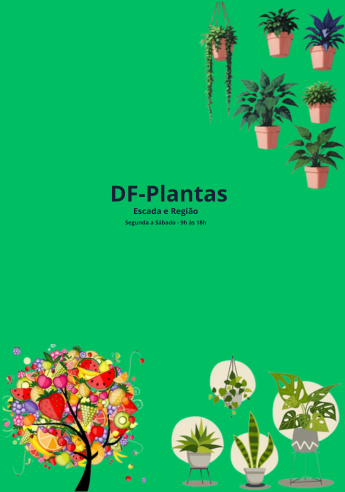
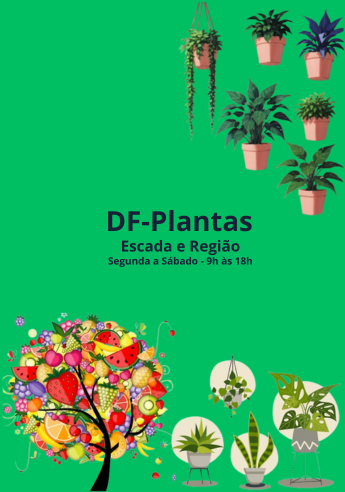
feat: update various components and styles
- Updated CardProduto, Slider, Title, LoginSignup, and PlantShop components with styling and functionality improvements.
- Modified global styles in globals.css for better consistency across components.

diff --git a/src/pages/PlantShop.jsx b/src/pages/PlantShop.jsx
@@ -15,18 +15,18 @@ export default function PlantShop() {
       <Header />
 
       <div className='mx-auto mt-6 flex justify-center md:mt-8' id='home'>
-        <img className='hidden w-10/12 h-[55vh] md:h-[80vh] md:block' src={DfBanner} alt="" />
-        <img className='w-10/12 h-[55vh] block md:h-[80vh] md:hidden' src={DfMobileBanner} alt="" />
+        <img className='hidden w-10/12 h-[55vh] md:h-[80vh] md:block' src={DfBanner} alt="Imagem do banner da loja" />
+        <img className='w-10/12 h-[55vh] block md:h-[80vh] md:hidden' src={DfMobileBanner} alt="Imagem do banner da loja" />
       </div>
 
       <main className="container mx-auto p-4 md:p-8" id='product'>
         <Slider title={'Nossas Plantas'} info={plants} />
-        <Slider title={'Nossos Vasos'} info={vases} />
-        <Slider title={'Outros Produtos'} info={other} />
+        <Slider title={'Nossos Vasos'} info={vases} className='dm:mr-[-5rem]' />
+        <Slider title={'Outros Produtos'} info={other} className='dm:mr-[-5rem]' />
 
         <section className='h-auto mx-auto mt-4 flex flex-wrap justify-center gap-2 md:gap-8 md:w-max md:mt-8'>
           <div>
-            <h3 className='h3-c md:text-lg'>
+            <h3 className='h3-c flex-col md:text-lg'>
               <Flower className='icon' />
               Plantas Premium
             </h3>
@@ -35,7 +35,7 @@ export default function PlantShop() {
             </p>
           </div>
           <div>
-            <h3 className='h3-c md:text-lg'>
+            <h3 className='h3-c flex-col md:text-lg'>
               <Leaf className='icon' />
               Espécies Exóticas
             </h3>
@@ -44,16 +44,16 @@ export default function PlantShop() {
             </p>
           </div>
           <div>
-            <h3 className='h3-c md:text-lg'>
+            <h3 className='h3-c flex-col md:text-lg'>
               <CreditCard className='icon' />
-              Parcele 12x Sem Juros
+              Parcele em 12x
             </h3>
             <p className='p-c w-32 md:w-56'>
               Parcele suas compras em até 12x sem juros no cartão de crédito.
             </p>
           </div>
           <div>
-            <h3 className='h3-c md:text-lg'>
+            <h3 className='h3-c flex-col md:text-lg'>
               <Truck className='icon' />
               Entrega Grátis
             </h3>
@@ -64,9 +64,9 @@ export default function PlantShop() {
         </section>
       </main>
 
-      <div className='w-8/12 mx-auto my-6 flex flex-col items-center md:my-16' id='about'>
+      <div className='w-9/12 mx-auto my-6 flex flex-col items-center md:my-16' id='about'>
         <h2 className='h2-c md:text-3xl'>Sobre Nós</h2>
-        <h3 className='h3-c'>Bem-vindo à nossa loja de plantas! 🌿</h3>
+        <h3 className='h3-c text-base text-center'>Bem-vindo à nossa loja de plantas! 🌿</h3>
         <div>
           <p className='p-c'>Aqui, na <b>DF-Plantas</b>, acreditamos que cada planta conta uma história única, trazendo mais vida, cor e frescor para o seu ambiente. Nós nos dedicamos a oferecer uma grande variedade de plantas, desde as mais clássicas até as espécies mais exóticas, todas cuidadas com o máximo de atenção para garantir que cheguem até você saudáveis e vibrantes.</p>
           <p className='p-c my-4'>Se você está em busca de um toque verde para a sua casa, escritório, ou presente perfeito para alguém especial, temos exatamente o que você precisa. Nossa equipe está sempre pronta para ajudar, seja para dar dicas sobre cuidados, sugestões de combinações ou até ajudar a encontrar aquela planta que vai transformar seu espaço.</p>
@@ -77,8 +77,8 @@ export default function PlantShop() {
       <iframe src="https://www.google.com/maps/embed?pb=!1m14!1m12!1m3!1d7894.496372492319!2d-35.24118454950209!3d-8.377230898066777!2m3!1f0!2f0!3f0!3m2!1i1024!2i768!4f13.1!5e0!3m2!1spt-BR!2sbr!4v1727961728152!5m2!1spt-BR!2sbr" className="iframe" style={{ border: "0", marginInline: "auto", padding: "10px" }} allowFullScreen={true} loading="lazy" title="loja df-plantas" referrerPolicy="no-referrer-when-downgrade">DF-Plantas</iframe>
 
       <footer className="w-full py-8 bg-thirdBackground text-secondaryForeground" id='contact'>
-        <div className="container mx-auto flex gap-1 justify-between text-center">
-          <p className='p-c-secondary'>Todos os Direitos Reservados &copy; {new Date().getFullYear()} DF-Plantas</p>
+        <div className="container mx-auto flex gap-1 justify-between items-center text-center">
+          <p className='p-c-secondary dm:w-28'>Todos os Direitos Reservados &copy; {new Date().getFullYear()} DF-Plantas</p>
           <div className='flex gap-1 md:gap-4'>
             <Mail className='icon-secondary' />
             <Phone className='icon-secondary' />
@@ -86,7 +86,7 @@ export default function PlantShop() {
             <FaInstagram className='icon-secondary' />
           </div>
           <a href="https://diego-fagundes-links.netlify.app/?fbclid=PAZXh0bgNhZW0CMTEAAaYKeVzi1XXM9tgpIFd_ZjC8z1dDtiTkAPR0Ttj9o6LtylYial0w_Ur86Do_aem_MK27d1KMJgfb4miHo5RofQ" target="_blank" rel="noreferrer">
-            <p className='p-c-secondary'>
+            <p className='p-c-secondary dm:w-20'>
               Desenvolvido por <span className='text-[#dfc672]'><b>Diego Fagundes</b></span>
             </p>
           </a>

diff --git a/src/components/CardProduto.jsx b/src/components/CardProduto.jsx
@@ -72,14 +72,14 @@ export default function Card({ product, admin, store }) {
   }
 
   return (
-    <div className={cn('w-max flex flex-col items-center justify-center relative md:mx-2', admin && 'relative', store && 'cursor-grab')}>
+    <div className={cn('w-full flex flex-col items-center justify-center relative md:mx-2', admin && 'relative', store && 'cursor-grab')}>
       {product?.image ? (
         <img className="img-c" src={product.image} alt={product?.name} />) : (<p>Imagem não disponível</p>
       )}
 
-      <h3 className="h3-c">{product?.name}</h3>
-      <p className='p-c'>Preço: R$ {product?.price},00</p>
-      <p className={cn('text-[0.3rem] text-disabledForeground z-10 text-center hidden md:mx-auto md:text-[0.96rem]', !product.visibility && 'block', store && 'md:mb-2')}>Indisponível no momento</p>
+      <h3 className="h3-c text-center">{product?.name}</h3>
+      <p className='p-c text-center'>Preço: R$ {product?.price},00</p>
+      <p className={cn('w-28 text-xs text-disabledForeground z-10 text-center hidden md:mx-auto md:text-[0.96rem]', !product.visibility && 'block', store && 'md:mb-2')}>Indisponível no momento</p>
 
       {store &&
         <button className={cn('btn-secondary', !product.visibility && 'hidden')} type="button">

diff --git a/src/styles/globals.css b/src/styles/globals.css
@@ -62,19 +62,19 @@
   }
 
   .h2-c {
-    @apply text-thirdForeground text-sm font-semibold md:mb-2 md:text-xl
+    @apply text-thirdForeground text-2xl font-semibold md:mb-2 md:text-xl
   }
 
   .h3-c {
-    @apply text-primaryForeground text-zx font-semibold flex justify-center items-center md:text-xl
+    @apply text-primaryForeground text-base leading-none font-semibold flex md:text-xl
   }
 
   .p-c {
-    @apply text-zx md:text-base
+    @apply text-sm md:text-base
   }
 
   .p-c-secondary {
-    @apply text-z md:text-sm
+    @apply text-zx md:text-xl
   }
 
   .link {
@@ -82,7 +82,7 @@
   }
 
   .img-c {
-    @apply w-16 h-16 rounded-sm md:w-52 md:h-48
+    @apply w-24 h-24 rounded-sm md:w-52 md:h-48
   }
 
   .input-c {
@@ -98,7 +98,7 @@
   }
   
   .btn-secondary {
-    @apply p-1 text-z rounded-lg bg-secondaryBackground text-secondaryForeground md:text-2xl
+    @apply p-1 text-xs rounded-lg bg-secondaryBackground text-secondaryForeground md:text-2xl
   }
 
   .btn-third {
@@ -122,7 +122,7 @@
   }
 
   .iframe {
-    @apply w-5/6 md:h-[30rem]
+    @apply w-5/6 h-80 md:h-[30rem]
   }
 
   .progress-custom::-webkit-progress-bar {

diff --git a/src/components/Slider.jsx b/src/components/Slider.jsx
@@ -2,20 +2,21 @@ import { Swiper, SwiperSlide } from 'swiper/react';
 
 import 'swiper/css';
 import Card from './CardProduto';
+import { twMerge } from 'tailwind-merge';
 
-export default function Slider({ info, title }) {
+export default function Slider({ title, info, className }) {
   return (
     <>
       {info.length > 0 &&
-        <h2 className='h2-c'>{title}</h2>
+        <h2 className='h2-c dm:text-lg'>{title}</h2>
       }
       <Swiper
         slidesPerView={3}
-        className='swiper p-2 md:py-4'
+        className={twMerge('swiper dm:mr-[-3rem] p-2 md:py-4', className)}
         onSlideChange={() => console.log('slide change')}
       >
         {info.map((product) => (
-          <SwiperSlide className='!w-[4.5rem] md:!w-56' key={product.id || product.image}>
+          <SwiperSlide className='!w-[6.5rem] md:!w-56' key={product.id || product.image}>
             <Card product={product} store={true} />
           </SwiperSlide>
         ))}

diff --git a/src/pages/LoginSignup.jsx b/src/pages/LoginSignup.jsx
@@ -107,7 +107,7 @@ export default function LoginSignup() {
       {isLogin ?
         <div className='p-6 rounded-lg bg-secondaryBackground'>
           <Title>Insira seus dados para entrar</Title>
-          <h3 className='h3-c mt-2 dm:text-xs text-secondaryForeground'>Escolha uma opção</h3>
+          <h3 className='h3-c mt-2 justify-center dm:text-sm text-secondaryForeground'>Escolha uma opção</h3>
 
           <form className="div-c w-min flex flex-col items-center relative" onSubmit={handleLogin}>
             <div className="flex flex-col">

diff --git a/src/components/Title.jsx b/src/components/Title.jsx
@@ -2,7 +2,7 @@ import { twMerge } from "tailwind-merge"
 
 function Title({ children, className }) {
   return (
-    <h1 className={twMerge('text-secondaryForeground text-center font-normal dm:w-56 md:w-[25rem] md:text-4xl', className)}>
+    <h1 className={twMerge('mx-auto text-secondaryForeground text-center font-normal dm:w-56 md:w-[25rem] md:text-4xl', className)}>
       {children}
     </h1>
   )
